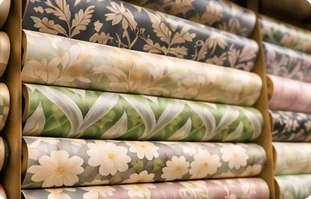
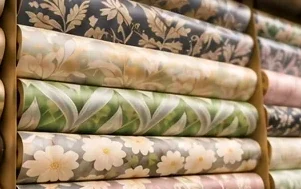
Trim baked-in rounded corners from category and offer photos

diff --git a/index.html b/index.html
@@ -11,7 +11,7 @@
 <link rel="preconnect" href="https://fonts.googleapis.com">
 <link rel="preconnect" href="https://fonts.gstatic.com" crossorigin>
 <link href="https://fonts.googleapis.com/css2?family=Instrument+Sans:ital,wght@0,400;0,500;0,600;0,700;1,400&display=swap" rel="stylesheet">
-<link rel="stylesheet" href="assets/site.css?v=20261113f">
+<link rel="stylesheet" href="assets/site.css?v=20261113g">
 <link rel="preload" as="image" href="assets/img/hero-shop-wide.webp">
 </head>
 <body>
@@ -94,19 +94,19 @@
     </div>
     <div class="wrap cat-grid">
       <article class="cat" id="paint">
-        <img src="assets/img/cat-paint.webp" alt="Shelves of Dulux and other paint tins" width="323" height="199" loading="lazy">
+        <img src="assets/img/cat-paint.webp?v=2" alt="Shelves of Dulux and other paint tins" width="323" height="199" loading="lazy">
         <h3><a href="paint.html">Paint &amp; colour mixing</a></h3>
         <p>Dulux, Crown, Johnstone's, Farrow &amp; Ball, Little Greene and more. Thousands of shades mixed in store.</p>
         <a class="cat-more" href="paint.html">See paint and colour mixing <span aria-hidden="true">→</span></a>
       </article>
       <article class="cat" id="wallpaper">
-        <img src="assets/img/cat-wallpaper.webp" alt="Rows of patterned wallpaper rolls on shop shelves" width="311" height="199" loading="lazy">
+        <img src="assets/img/cat-wallpaper.webp?v=2" alt="Rows of patterned wallpaper rolls on shop shelves" width="311" height="199" loading="lazy">
         <h3>Wallpaper &amp; fabrics</h3>
         <p>Over 1,000 wallpaper designs in stock, plus Sanderson, Harlequin, Morris &amp; Co and more to order. Most ranges here in 24–48 hours.</p>
         <a class="cat-more" href="tel:+441255428918">Ask about wallpaper <span aria-hidden="true">→</span></a>
       </article>
       <article class="cat" id="supplies">
-        <img src="assets/img/cat-supplies.webp" alt="Paint brushes, rollers and masking tape on a display wall" width="322" height="199" loading="lazy">
+        <img src="assets/img/cat-supplies.webp?v=2" alt="Paint brushes, rollers and masking tape on a display wall" width="322" height="199" loading="lazy">
         <h3>Decorating supplies</h3>
         <p>From sandpaper to sanding blocks, paste to plumb lines: fillers, adhesives, masking tape, dust sheets and roller trays.</p>
         <a class="cat-more" href="tel:+441255428918">Ask about supplies <span aria-hidden="true">→</span></a>
@@ -161,7 +161,7 @@
   </div>
 </footer>
 
-<script src="data/offers.js?v=20261113f"></script>
-<script src="assets/site.js?v=20261113f"></script>
+<script src="data/offers.js?v=20261113g"></script>
+<script src="assets/site.js?v=20261113g"></script>
 </body>
 </html>

diff --git a/offers.html b/offers.html
@@ -11,7 +11,7 @@
 <link rel="preconnect" href="https://fonts.googleapis.com">
 <link rel="preconnect" href="https://fonts.gstatic.com" crossorigin>
 <link href="https://fonts.googleapis.com/css2?family=Instrument+Sans:ital,wght@0,400;0,500;0,600;0,700;1,400&display=swap" rel="stylesheet">
-<link rel="stylesheet" href="assets/site.css?v=20261113f">
+<link rel="stylesheet" href="assets/site.css?v=20261113g">
 <link rel="preload" as="image" href="assets/img/offers-banner.webp">
 </head>
 <body>
@@ -117,7 +117,7 @@
   </div>
 </footer>
 
-<script src="data/offers.js?v=20261113f"></script>
-<script src="assets/site.js?v=20261113f"></script>
+<script src="data/offers.js?v=20261113g"></script>
+<script src="assets/site.js?v=20261113g"></script>
 </body>
 </html>

diff --git a/paint.html b/paint.html
@@ -11,7 +11,7 @@
 <link rel="preconnect" href="https://fonts.googleapis.com">
 <link rel="preconnect" href="https://fonts.gstatic.com" crossorigin>
 <link href="https://fonts.googleapis.com/css2?family=Instrument+Sans:ital,wght@0,400;0,500;0,600;0,700;1,400&display=swap" rel="stylesheet">
-<link rel="stylesheet" href="assets/site.css?v=20261113f">
+<link rel="stylesheet" href="assets/site.css?v=20261113g">
 <link rel="preload" as="image" href="assets/img/paint-hero.webp">
 </head>
 <body>
@@ -156,6 +156,6 @@
   </div>
 </footer>
 
-<script src="assets/site.js?v=20261113f"></script>
+<script src="assets/site.js?v=20261113g"></script>
 </body>
 </html>
